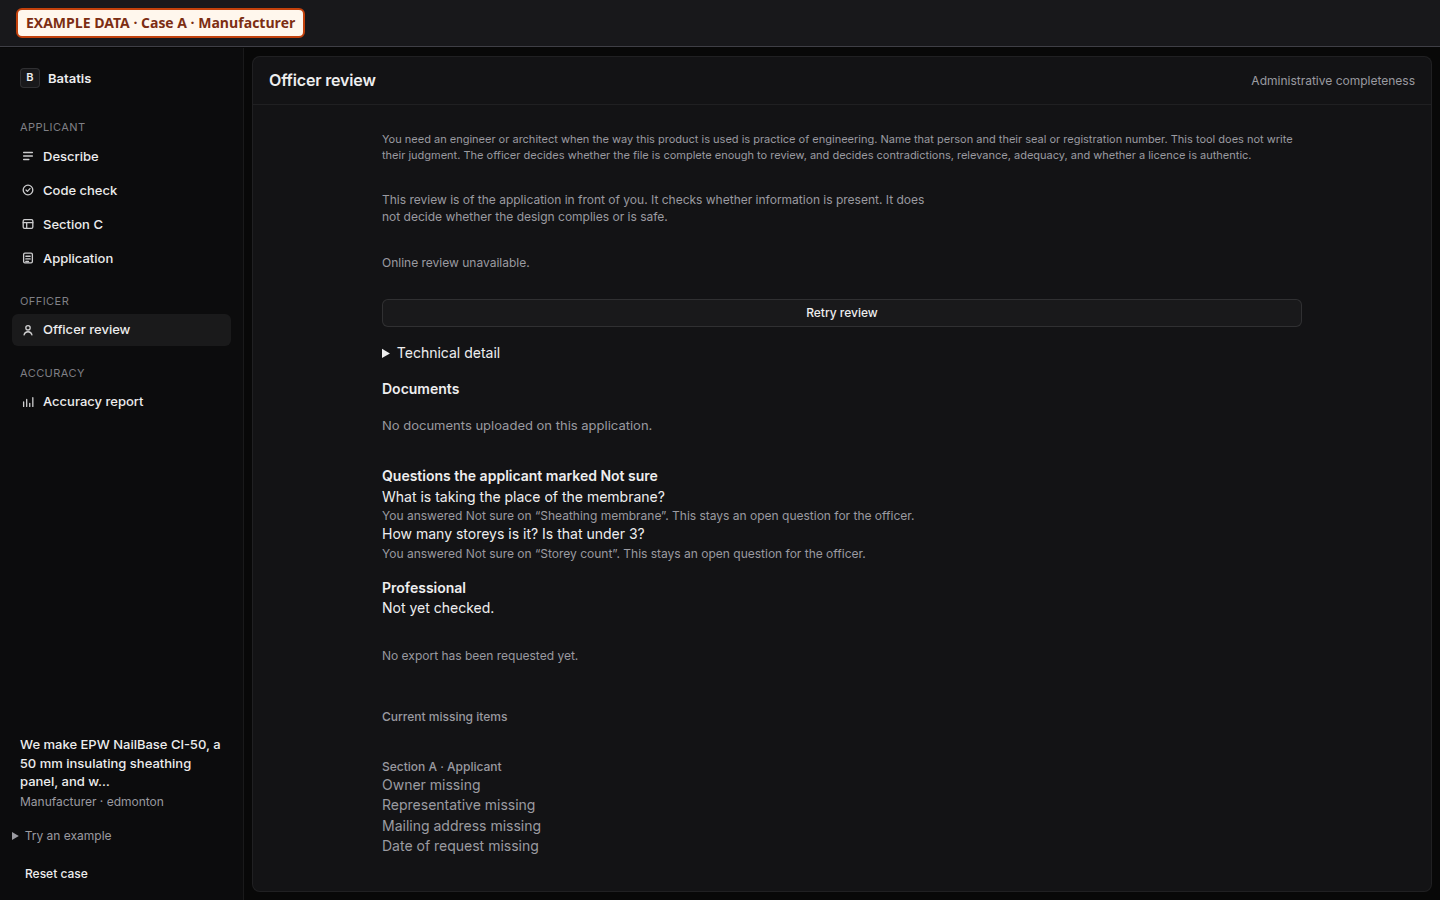
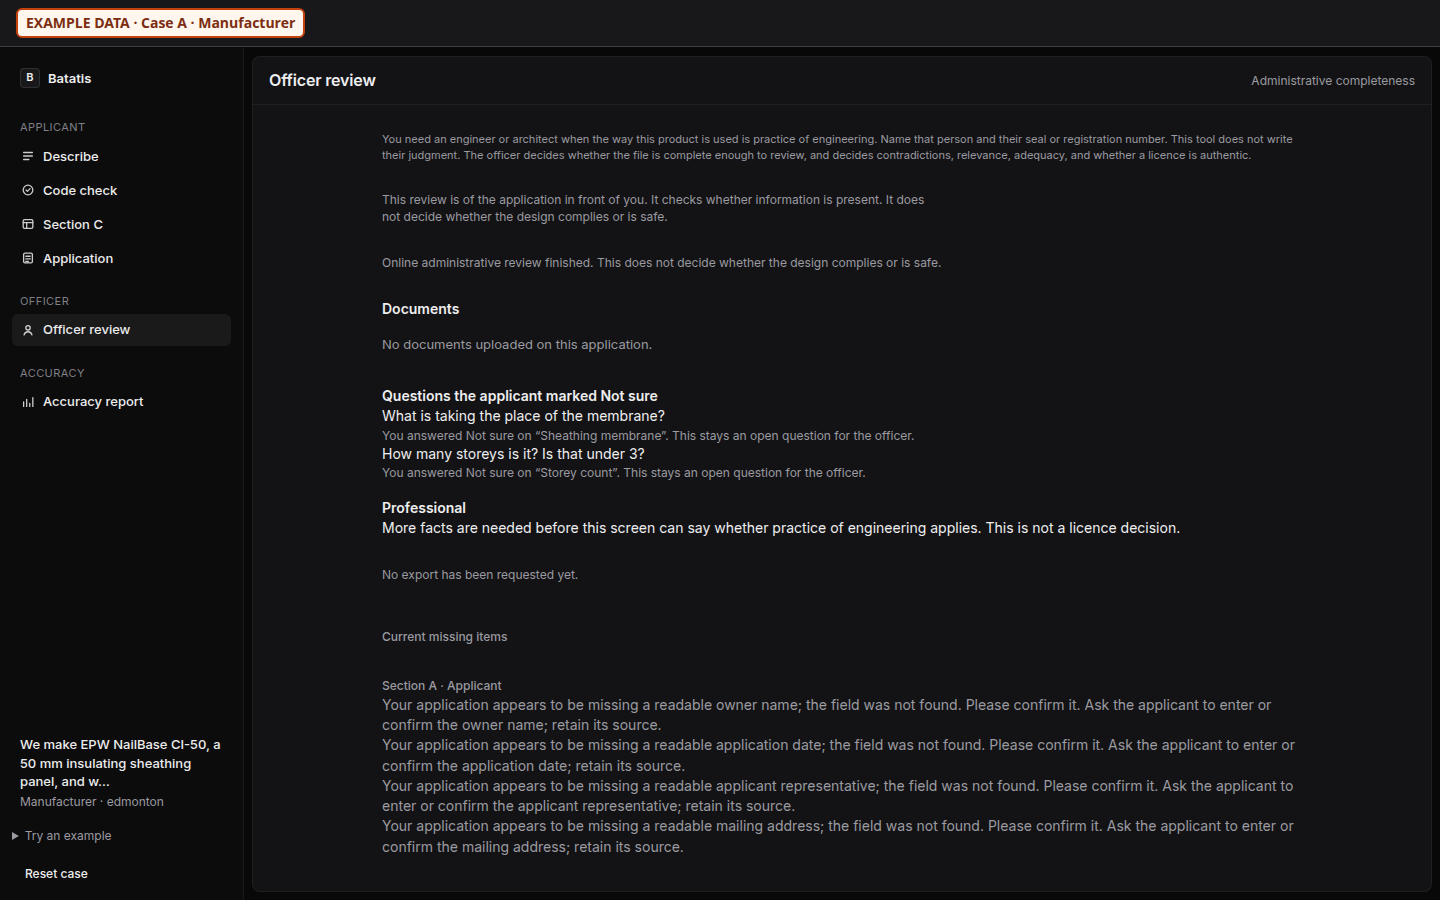
Abort stills unless the engine answers, and recapture describe, Not sure, and officer.
GET /openapi.json must return 200 before a still is taken. Describe, Not sure, and the Case A officer review were recaptured with the engine review line on screen. The script test reads #20 when that ref is present and skips when it is not.

Changed region(s): [[0.25, 0.28, 0.9062, 0.9644], [0.5625, 0.3422, 0.625, 0.3733]]

diff --git a/scripts/demo-record/seed-admin-db.py b/scripts/demo-record/seed-admin-db.py
@@ -1,0 +1,75 @@
+"""Write a code database the completeness check can read.
+
+The rows are Division C provisions already cited in this repo, with the PDF pages
+from those citations. Sentence text is left empty. This is used only when the
+NBC source PDF is not in the checkout, so the engine can answer gaps.
+"""
+from __future__ import annotations
+
+import sys
+from pathlib import Path
+
+sys.path.insert(0, str(Path.cwd()))
+
+from codedb import ids, store
+
+# id, division, pdf page. Pages are the ones already cited in research/facts.
+ROWS = (
+    ("2.3.1.1.(2)(a)", "C", 739),
+    ("2.3.1.1.(2)(b)", "C", 739),
+    ("2.3.1.1.(3)", "C", 739),
+    ("2.3.1.1.(4)", "C", 739),
+    ("2.4.1.1.(1)", "C", 739),
+    ("2.4.1.1.(2)", "C", 740),
+    ("2.4.1.1.(3)", "C", 740),
+    ("2.4.1.1.(4)", "C", 740),
+    ("2.4.1.1.(5)", "C", 740),
+    ("2.4.1.2.(1)", "C", 740),
+    ("2.4.1.2.(2)", "C", 740),
+    ("2.4.1.3.(1)", "C", 740),
+    ("2.4.1.4.(1)", "C", 740),
+)
+
+
+def main(path: Path) -> None:
+    if path.exists():
+        path.unlink()
+    con = store.create(path)
+    con.execute(
+        "INSERT INTO docs VALUES (?,?,?,?,?,?,?)",
+        ("NBC-AE", "NBC(AE) 2023 p2", "code", 1, "", "", None),
+    )
+    for raw, division, page in ROWS:
+        pid = ids.parse(raw)
+        con.execute(
+            "INSERT INTO provisions VALUES (?,?,?,?,?,?,?,?,?,?,?,?,?,?,?,?,?,?,?,?,?)",
+            (
+                "NBC-AE",
+                division,
+                str(pid),
+                pid.level,
+                pid.part,
+                None,
+                None,
+                str(pid.article) if pid.article else None,
+                pid.sentence,
+                pid.clause,
+                pid.subclause,
+                str(pid.parent()) if pid.parent() else None,
+                "",
+                "",
+                "",
+                "",
+                "[]",
+                page,
+                page,
+                1,
+                ".".join(f"{part:04d}" for part in pid.sort_key()[0])
+                + f".{pid.sort_key()[1]:04d}.{pid.sort_key()[2]:04d}",
+            ),
+        )
+    store.finalize(con, path)
+
+
+if __name__ == "__main__":
+    main(Path(sys.argv[1]))

diff --git a/docs/demo/record.md b/docs/demo/record.md
@@ -16,7 +16,7 @@ The log lists every shot as `recorded`, `skipped`, or `failed`, with the reason.
 
 On this branch the web app does not have Who, an empty case, Search Division B, the Section D tab, the planted officer package, or the authority select. Those shots are skipped or failed. The mp4 is the opening screen. It is not labelled as Case A or Case C. `--strict` is the submission take, for a branch that has the seven screens.
 
-No API key is required. By default the recorder starts `uvicorn engine.api:app` on `127.0.0.1:8000` from the recorded checkout, or reuses an engine that is already listening, and the browser calls `/api`. If `codedb/build/codedb.sqlite` is missing and the checkout contains the NBC source PDF and its page text, the recorder builds that database before the engine starts. It does not download the code. Pass `--offline` to skip that start and abort `/api` and port 8000. The recorder does not call a model API itself, and it does not upload a PDF. Shot 7 clicks Check completeness and Download draft PDF. Any other download fails the run. It will not type an article id that search did not return. Every recorded frame that shows fixture or sample data carries a visible `EXAMPLE DATA` label. The stills log records `networkMode` as `engine` or `offline`, and `engineState` as `started`, `reused`, or `offline`.
+No API key is required. By default the recorder starts `uvicorn engine.api:app` on `127.0.0.1:8000` from the recorded checkout, or reuses an engine that is already listening, and the browser calls `/api`. If `codedb/build/codedb.sqlite` is missing and the checkout contains the NBC source PDF and its page text, the recorder builds that database before the engine starts. It does not download the code. Without those sources it seeds only the Division C provisions the completeness check looks up, with the PDF pages already cited in this repo, and leaves sentence text empty. Pass `--offline` to skip that start and abort `/api` and port 8000. The recorder does not call a model API itself, and it does not upload a PDF. Shot 7 clicks Check completeness and Download draft PDF. Any other download fails the run. It will not type an article id that search did not return. Every recorded frame that shows fixture or sample data carries a visible `EXAMPLE DATA` label. The stills log records `networkMode` as `engine` or `offline`, and `engineState` as `started`, `reused`, or `offline`.
 
 Chrome (or `CHROME_PATH`), `ffmpeg`, and `ffprobe` must be on the machine. `ffprobe` checks that the mp4 is H.264 and at least three seconds. The first run installs `playwright-core` under `scripts/demo-record/` and downloads Playwright's ffmpeg into `~/.cache/ms-playwright/ffmpeg-*` (on Linux the binary is `ffmpeg-linux`). That copy only muxes the browser capture. The system `ffmpeg` writes the mp4 and the system `ffprobe` checks it. Chrome is also looked up at the usual Linux Chromium paths and under `/Applications` on macOS. If `web/node_modules` is missing, the same run installs those dependencies.
 
@@ -54,7 +54,7 @@ The camera follows the script's order, not shot numbers. Case C stays open for s
 ./scripts/record-demo.sh --stills --branch cursor/e2e-product-flow-4362
 ```
 
-`--stills` writes the deck PNGs named in the screenshot slot list, 1440×900, under `artifacts/deck-stills/`. It does not record the mp4. A slot whose screen is not in the build is `pending` in `stills-log.json`, with the reason. Nothing is drawn in its place. A still is also `pending` when code search returned 503, or when its footer reads “Online review unavailable”. The roles still does not call code search. The Section D still is `pending` unless “Recommendations only. You write the evidence and the answers. This does not decide that the design complies or is safe.” is on screen. That sentence is not typed in. Each captured slot is captioned `scripted demo capture, <branch> @ <sha>`. Seeded frames carry the `EXAMPLE DATA` label. The log's `webDir` is `web`, or a path inside this repo. It does not store a machine-local directory. The run does not upload a PDF.
+`--stills` writes the deck PNGs named in the screenshot slot list, 1440×900, under `artifacts/deck-stills/`. It does not record the mp4. A slot whose screen is not in the build is `pending` in `stills-log.json`, with the reason. Nothing is drawn in its place. Before any still is taken, GET `http://127.0.0.1:8000/openapi.json` must return 200. If it does not, the run aborts and no still is written. A still is also `pending` when code search returned 503, or when its footer reads “Online review unavailable”. The roles still does not call code search. `shot-s06-section-d.png` is Officer review of the open Case A application, the same screen as the officer still. Each captured slot is captioned `scripted demo capture, <branch> @ <sha>`. Seeded frames carry the `EXAMPLE DATA` label. The log's `webDir` is `web`, or a path inside this repo. It does not store a machine-local directory. The run does not upload a PDF.
 
 `--check-script` reads `docs/demo/script.md` from the working tree, then `origin/dev`, then #20, or from `--script`, and exits non-zero when the shot list and the step catalog disagree. It does not record, including when `--out` is also set. A recording and a `--stills` run use the same check and stop before the app starts. `--allow-drift` is the only way to record after that disagreement. `--check-script` still exits non-zero on drift when `--allow-drift` is also set.
 
